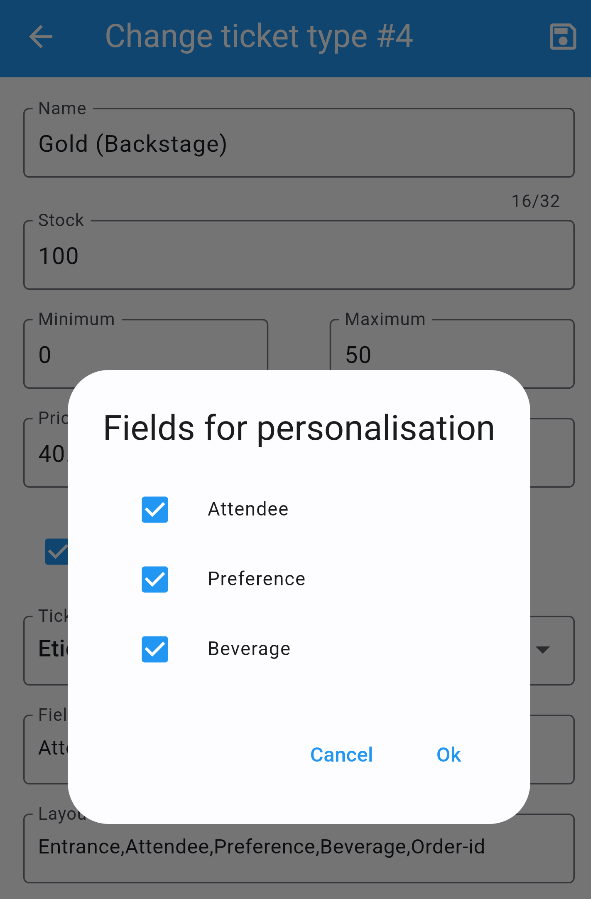
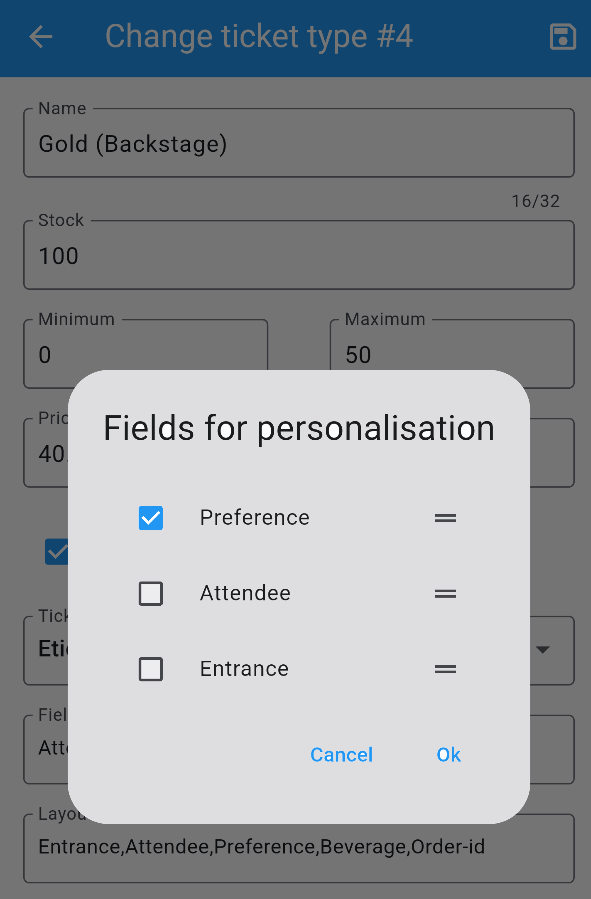
- Update personalization selection image - Added level 7 and 8 to scan_ticket hook

diff --git a/docs/usage/personalise.rst b/docs/usage/personalise.rst
@@ -48,12 +48,7 @@ Connecting input fields to `ticket types <events.html#ticket-types>`_ is the nex
 It is possible to associate different input fields with different tickets.
 And not all tickets need to have personalisation fields.
 
-Simply tap :guilabel:`Fields for personalisation` and choose the fields you want to use.
-The order in which you select them determines the order in which they will appear during personalisation.
-
-.. note::
-   Example: Suppose you have two personalization fields, and you want the second one to appear first in the personalization dialog, with the first field shown last.
-   Tap :guilabel:`Fields for personalisation`, select the last field, and click ``Ok``. Then tap :guilabel:`Fields for personalisation` again, choose the first field, and click ``Ok``.
+Simply tap :guilabel:`Fields for personalisation` and choose the fields you want to use. You can drag and drop them to change the order.
 
 3. Use in thank-you-page
 ^^^^^^^^^^^^^^^^^^^^^^^^
@@ -116,8 +111,7 @@ The order in which you select them determines the order in which they will appea
 Checking the :guilabel:`Default layout` checkbox causes the default QR-code info block to be printed in the eTicket PDF.
 
 If you deselect it, tap :guilabel:`Layout fields` and choose up to 6 fields you want to print on the eticket PDF.
-The order in which you select them determines the order in which they appear on the PDF.
-Just as with the :guilabel:`Fields for personalisation`, you may need to open and close the dialog multiple times to set the correct order.
+The order of the fields in the ticket layout runs from top to bottom, and you can change the order if needed by dragging the fields to the desired position.
 
 Use personalisation
 -------------------

diff --git a/docs/hooks/scan_ticket.rst b/docs/hooks/scan_ticket.rst
@@ -31,7 +31,7 @@ Parameters
 **$attr['email']**
     (*string*) The emailaddress of the person who placed the order.
 **$attr['level']**
-    (*int*) **0** = entrance scan, **1** = staged scan, **9** = exit scan.
+    (*int*) **0** = entrance scan, **1** = staged scan, **7** = Temporarily leave, **8** = Re-enter and **9** = exit scan.
 **$attr['date']**
     (*string*) The date when the ticket was scanned. Format ``YYYY-MM-DD HH:MM:SS``.
 **$attr['location']**
@@ -39,7 +39,7 @@ Parameters
 **$attr['scans']**
     (*array*) Scans ordered by ‘*scan_date*‘
        
-    1. **'level'** (*int*)  **0** = Entry scan, **1** = staged scan, **9** = exit scan
+    1. **'level'** (*int*)  **0** = Entry scan, **1** = staged scan, **7** = Temporarily leave, **8** = Re-enter and **9** = exit scan
     2. **'scan_date'** (*string*) Uses the date format defined in `Date of sale Overview <../usage/events.html#date-of-sale>`_.
     3. **'scan_location'** (*string*) The location of the scan.
     
